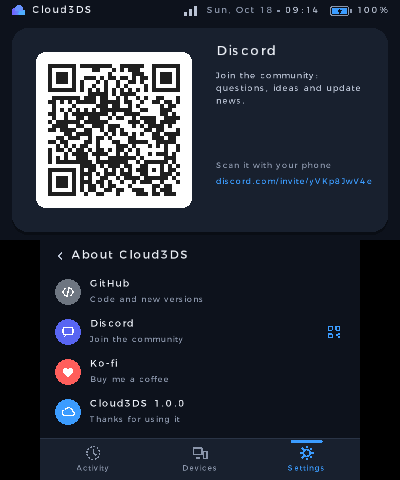
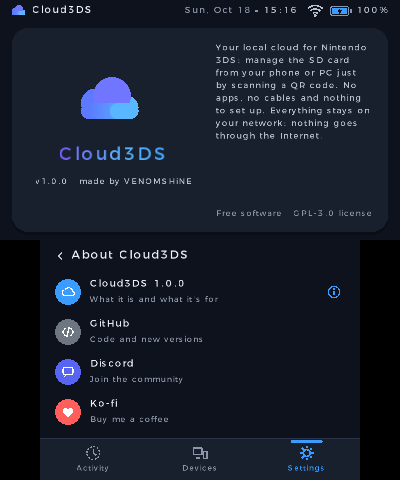
README y CHANGELOG al día, con capturas nuevas
Capturas de la consola (inicio, subida, actividad, dispositivos,
ajustes y acerca de) y de la web con los cambios: candados en las
carpetas protegidas, barra de la ruta, pie con los iconos. Funciones y
controles actualizados (carpeta anterior, búsqueda, protección,
expulsión y la tecla Y para borrar el historial).

diff --git a/README.md b/README.md
@@ -17,7 +17,7 @@
   <img src="docs/acerca.png" width="260" alt="Acerca de, con el QR del Discord">
 </p>
 <p align="center">
-  <img src="docs/web-movil.png" width="200" alt="Capturas en el móvil">
+  <img src="docs/web-movil.png" width="200" alt="La SD en el móvil, con las carpetas del sistema protegidas">
   <img src="docs/web-subidas.png" width="200" alt="Subidas desde el móvil">
   <img src="docs/web-pc.png" width="430" alt="Cloud3DS en el navegador del PC">
 </p>
@@ -49,12 +49,13 @@ El móvil o el PC tienen que estar en **la misma red** que la consola. En alguna
 ## Funciones
 
 - **Conectar en un segundo:** QR en la consola para el móvil y dirección + PIN para el PC. El PIN cambia en cada arranque y se bloquea tras varios intentos fallidos.
-- **Dispositivos recordados:** los ves en la consola, con quién está conectado ahora, y puedes **expulsar** a cualquiera.
+- **Dispositivos recordados:** los ves en la consola, con quién está conectado ahora, y puedes **expulsar** a cualquiera; en su navegador aparece al momento que lo desconectaron.
 - **Explorador de la SD** en el navegador: accesos rápidos a **Capturas** (Luma), **Fotos** (cámara), **CIAs**, **Homebrew** y **Partidas** (Checkpoint); lista o cuadrícula con miniaturas; búsqueda y orden por nombre, fecha o tamaño.
 - **Subir arrastrando** archivos sueltos o carpetas enteras, con cola, progreso, velocidad y tiempo restante. Si algo ya existe, eliges **reemplazar**, **conservar ambos** u **omitir**.
+- **Carpeta anterior**, ruta siempre visible y **búsqueda** que se despliega desde la lupa.
 - **Descargar** archivos y ver **fotos** (deslizando entre ellas), **vídeos** y **textos** directamente en el navegador.
 - **Crear carpetas, renombrar y borrar**, también varios a la vez.
-- **Seguro por defecto:** modo **solo lectura** y confirmación antes de tocar carpetas del sistema (`Nintendo 3DS`, `luma/payloads`, `boot.firm`…).
+- **Seguro por defecto:** modo **solo lectura** y **carpetas del sistema protegidas** (`Nintendo 3DS`, `3ds`, `luma`, `boot.firm`…): llevan un candado y no se pueden borrar ni renombrar mientras la protección esté activa.
 - **Sin sorpresas:** las subidas se escriben en un temporal y solo se guardan al terminar; si se corta la conexión, no quedan archivos a medias. Avisa si no hay espacio o si el archivo pasa de 4 GB (límite de FAT32).
 - **En la consola:** el QR, la dirección y el PIN siempre a la vista, con las transferencias en directo al lado. Pestañas de **Actividad**, **Dispositivos** y **Ajustes**; en «Acerca de», los QR de GitHub, Discord y Ko-fi.
 - **Puedes cerrar la tapa:** mientras transfiere, la consola no se suspende y apaga la pantalla.
@@ -68,6 +69,7 @@ El móvil o el PC tienen que estar en **la misma red** que la consola. En alguna
 | **L / R** | Cambiar de pestaña (Actividad, Dispositivos, Ajustes) |
 | **↑ ↓** | Moverse por las listas |
 | **A** | Elegir |
+| **Y** | Borrar el historial (en Actividad) |
 | **B** | Atrás / cancelar |
 | **START** | Salir |
 
@@ -138,4 +140,4 @@ Cloud3DS es software libre bajo la **[GNU GPL v3](LICENSE)** con términos adici
 
 *License: GNU GPL v3 with additional attribution terms — see [NOTICE.md](NOTICE.md).*
 
-El motor de dibujo de la consola (texto, formas e íconos) viene de [Gemi3DS](https://github.com/venomshine/Gemi3DS). Incluye cJSON (MIT) y QR Code generator de Project Nayuki (MIT), que conservan sus licencias.
+Incluye cJSON (MIT) y QR Code generator de Project Nayuki (MIT), que conservan sus licencias.

diff --git a/CHANGELOG.md b/CHANGELOG.md
@@ -8,7 +8,9 @@
 - Subidas de archivos y carpetas (botón o arrastrar y soltar) con cola, progreso, velocidad, tiempo restante y cancelación. Conflictos: reemplazar, conservar ambos u omitir.
 - Descargas con soporte de rangos (los vídeos se pueden adelantar), visor de fotos, vídeos y texto.
 - Crear carpetas, renombrar y borrar (también varios a la vez).
-- Seguridad: modo solo lectura, confirmación en carpetas del sistema, subidas atómicas (no quedan restos si se corta), avisos de falta de espacio y del límite de 4 GB de FAT32.
-- Consola: QR, dirección y PIN, transferencias en directo, actividad, dispositivos, ajustes, batería, Wi-Fi y hora. Tema oscuro y claro, en español, inglés y japonés.
+- Seguridad: modo solo lectura, subidas atómicas (no quedan restos si se corta), avisos de falta de espacio y del límite de 4 GB de FAT32.
+- Consola: presentación animada; QR, dirección y PIN siempre a la vista con las transferencias en directo al lado; pestañas de Actividad, Dispositivos y Ajustes; «Acerca de» con los QR de GitHub, Discord y Ko-fi; fecha, hora, Wi-Fi y batería. Tema oscuro y claro, en español, inglés y japonés.
+- Al expulsar un dispositivo desde la consola, su navegador muestra que lo desconectaron.
+- Carpetas del sistema protegidas (con candado en la web): no se pueden borrar ni renombrar mientras la protección esté activa.
 - No se suspende mientras transfiere y apaga la pantalla si se cierra la tapa.
 - Se distribuye como `.cia` (con banner y sonido en el menú HOME) y `.3dsx`.
